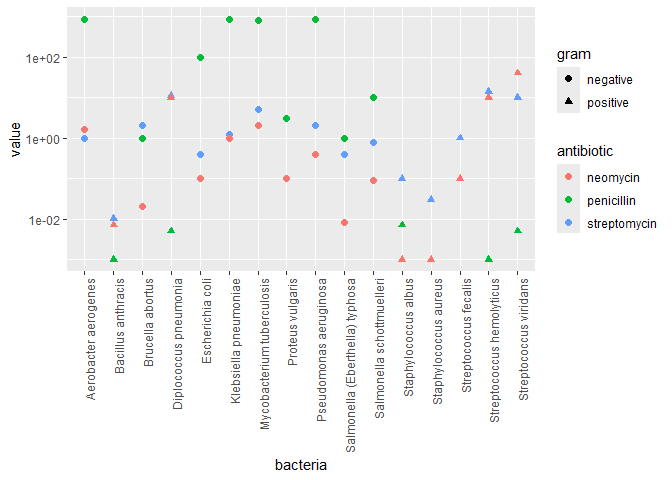
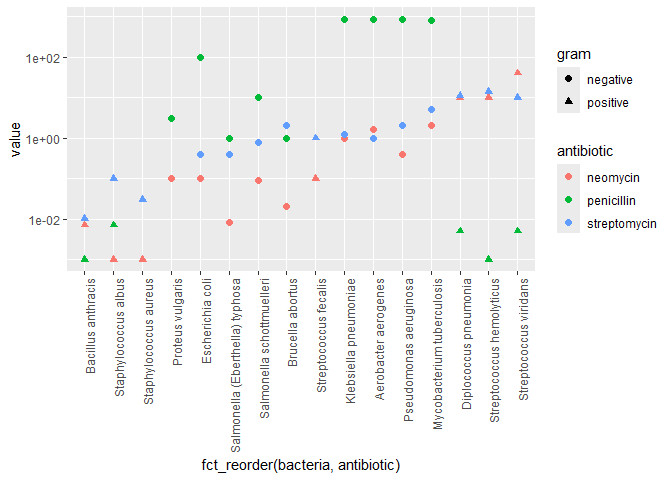
Resubmit challenge 5

diff --git a/challenges/c05-antibiotics-assignment.md b/challenges/c05-antibiotics-assignment.md
@@ -168,25 +168,30 @@ df_pivot <- df_antibiotics %>%
     cols = c(penicillin, streptomycin, neomycin),
     names_to = "antibiotic"
   ) %>% 
-  mutate(bacteria = fct_reorder(bacteria, antibiotic))
+  ungroup() %>% 
+  mutate(
+    bacteria = as.factor(bacteria),
+    bacteria = fct_reorder(bacteria, value)
+  ) %>% 
+  arrange(value)
 
 
 df_pivot 
 ```
 
     ## # A tibble: 48 × 4
-    ##    bacteria              gram     antibiotic     value
-    ##    <fct>                 <chr>    <chr>          <dbl>
-    ##  1 Aerobacter aerogenes  negative penicillin   870    
-    ##  2 Aerobacter aerogenes  negative streptomycin   1    
-    ##  3 Aerobacter aerogenes  negative neomycin       1.6  
-    ##  4 Brucella abortus      negative penicillin     1    
-    ##  5 Brucella abortus      negative streptomycin   2    
-    ##  6 Brucella abortus      negative neomycin       0.02 
-    ##  7 Bacillus anthracis    positive penicillin     0.001
-    ##  8 Bacillus anthracis    positive streptomycin   0.01 
-    ##  9 Bacillus anthracis    positive neomycin       0.007
-    ## 10 Diplococcus pneumonia positive penicillin     0.005
+    ##    bacteria                        gram     antibiotic   value
+    ##    <fct>                           <chr>    <chr>        <dbl>
+    ##  1 Bacillus anthracis              positive penicillin   0.001
+    ##  2 Staphylococcus albus            positive neomycin     0.001
+    ##  3 Staphylococcus aureus           positive neomycin     0.001
+    ##  4 Streptococcus hemolyticus       positive penicillin   0.001
+    ##  5 Diplococcus pneumonia           positive penicillin   0.005
+    ##  6 Streptococcus viridans          positive penicillin   0.005
+    ##  7 Bacillus anthracis              positive neomycin     0.007
+    ##  8 Staphylococcus albus            positive penicillin   0.007
+    ##  9 Salmonella (Eberthella) typhosa negative neomycin     0.008
+    ## 10 Bacillus anthracis              positive streptomycin 0.01 
     ## # ℹ 38 more rows
 
 #### Visual 1 (All variables)
@@ -200,7 +205,8 @@ is Gram positive or negative.
 df_pivot %>% 
   mutate(bacteria = fct_reorder(bacteria, antibiotic)) %>% 
   ggplot(aes(
-    x = bacteria,
+    # x = bacteria,
+    x = fct_reorder(bacteria, antibiotic),
     y = value
   ) ) +
   geom_point(aes(color = antibiotic, shape = gram), size = 2) +
@@ -342,21 +348,11 @@ Neomycin has the highest effectiveness for negative strains of bacteria,
 including Diplococcus pneumonia, streptococcus hemolyticus, and
 streptococcus vindans.
 
-Penicillin has the highest effectiveness when it comes to positive
-strains of bacteria, including Aerobecter aerogenes, Escherichia coli,
-Klebsiella pneumoniae, proteus vularis, mycobacterium tuberculosis,
-psuedomonas aeruginosa, and salmonella schottruelleri.
-
-Streptomycin has the widest range for the effectiveness of both positive
-and negative strains. Positive strains include brucella abortus,
-mycobacterium tuberculosis, and pseudomonas aeruginosa while the
-negative strains include diplococcus pneumonia, streptococcus
-hemoolyticus, and streptococcus vindans
-
-Overall, neomycin was effective for mostly negative strains while
-penicillin was effective for only positive strains. Streptomycin has the
-largest range of both positive and negative strains. In general,
-penicillin requires higher concentrations compared to the other two.
+Penicillin has the highest effectiveness when it comes to positive gram
+bacteria. Streptomycin is also mostly effective for positive gram
+bacteria. On the other hand, neomycin is effective for both positive and
+negative gram bacteria. All three are effective against staphylococcus
+aureus and bacillus anthrasis.
 
 \- Which of your visuals above (1 through 5) is **most effective** at
 helping to answer this question? - My second visual (the bar chart with
@@ -376,26 +372,23 @@ and in 1984 *Streptococcus fecalis* was renamed *Enterococcus fecalis*
 > Why was *Diplococcus pneumoniae* was renamed *Streptococcus
 > pneumoniae*?
 
-*Observations* - What is your response to the question above? -
-Diplococcus Pneumoniae is high in both streptomycin and neomycin, though
-it’s the highest in streptomycin. Other streptococcus bacteria also have
-a high amount of a streptomycin, which closeley aligns with the
-biological structure of Diplococcus pneumoniae.
+*Observations* - What is your response to the question above? - Only
+penicillin was effective against Diplococcus Pneumoniae. Since
+penicillin is effective against all bacteria within the streptococcus
+genus, that could explain why it was renamed.
 
-Streptococcus fecalis has all three, but streptomycin and penicillin are
-significantly higher than neomycin. The presence of penicillin doesn’t
-align with the other bacteria under the streptococcus genus, which could
-explain that name change.
+Streptococcus fecalis was renamed since penicillin was actually not the
+most effective against it. It seems actually seems like neocymin is the
+most effective at around 0.1, which is probably why it was renamed.
 
-- Which of your visuals above (1 through 5) is **most effective** at
-  helping to answer this question? - Visuals 4 and 5 - Why? - In visual
-  4, I was able to compare the values of the different antibiotics quite
-  easily, especially since it was separated by bacteria. That’s how I
-  was able to see that the streptococcus genus is typically high in
-  streptomycin. Visual 5 was helpful in answering the second part of the
-  question since I was able to see that the penicillin level of
-  streptococcus fecalis was considerably higher compared to the other
-  bacteria in the streptococcus genus.
+Which of your visuals above (1 through 5) is **most effective** at
+helping to answer this question? - Visuals 4 and 5 - Why? - In visual 4,
+I was able to compare the values of the different antibiotics quite
+easily, especially since it was separated by bacteria. Visual 5 was
+helpful in answering the second part of the question since I was able to
+see that the neomycin level of streptococcus fecalis was was present
+(around 0.1) whereas the other bacteria in the streptococcus genus had a
+penicillin level lower than 0.1.
 
 # References
 
